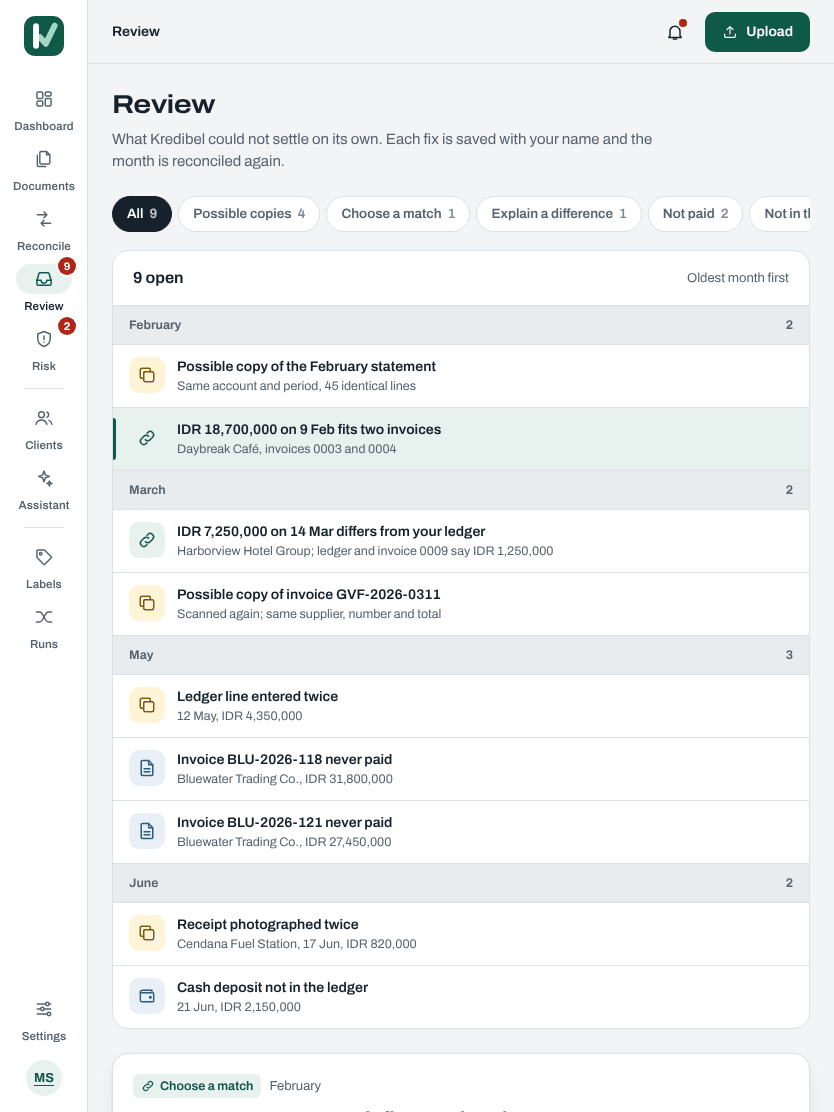
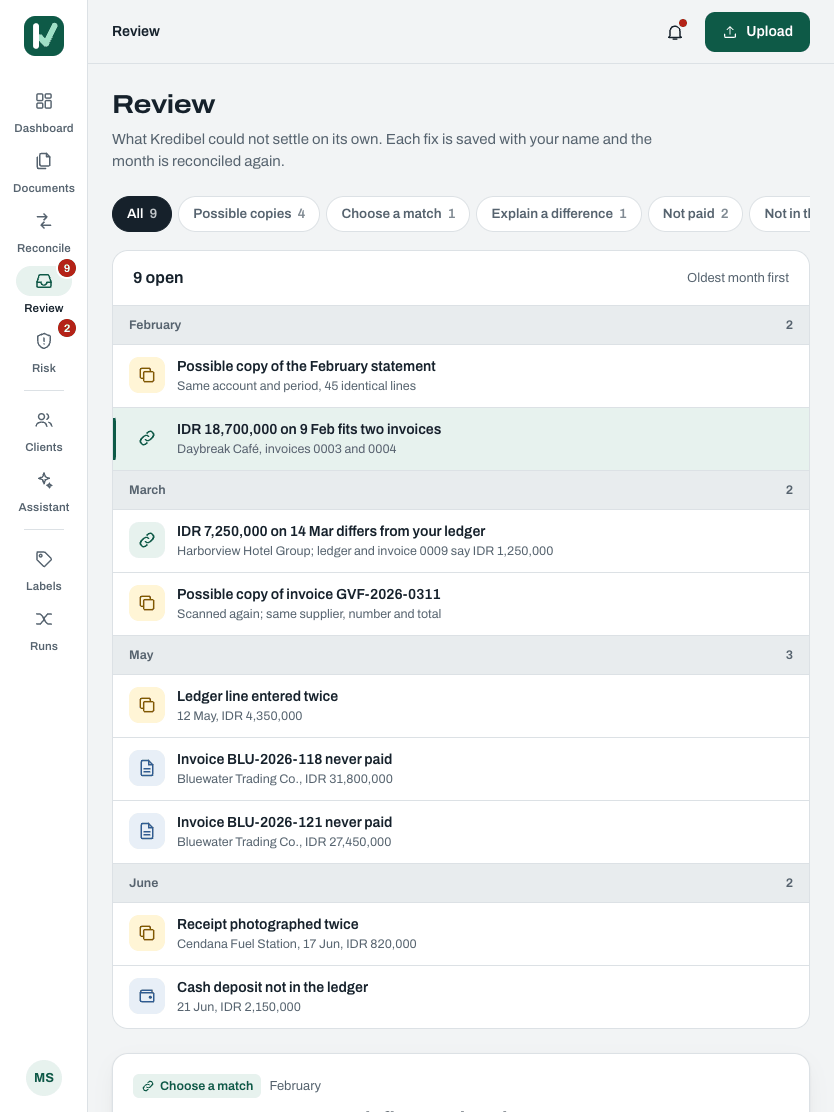
feat(001): one profile row and a two-line trial status at the sidebar foot
The sidebar foot stacked a dark four-line trial card, a Settings item
and the user row: 264 px, so the navigation scrolled on every laptop
screen (68 px hidden at 1440 x 900, 248 px at 1280 x 720).

Settings and the profile were two ways to the same page, so they are
now one row: avatar, name, role and a settings icon, opening Settings
and marked current on every Settings page (the avatar alone in the
rail; the More sheet still lists Settings). The trial card becomes a
light two-line link to Plan and usage: days left, then a thin meter
with "286 of 400 pages". With nav items at 38 px and tighter group
labels the foot is 116 px and the labelled sidebar fits a window 768 px
tall without scrolling (measured on the mocks); below that only the
navigation scrolls.

AC-001-16 and AC-013-12, docs/11 §4.1 and docs/12 follow; the mocks,
their screenshots and the visual baselines are re-recorded (the
onboarding baselines also pick up the currency field).

Tasks: T001-28, T013-12
AC: AC-001-16, AC-013-12

diff --git a/design/mocks/assets/kit.css b/design/mocks/assets/kit.css
@@ -117,8 +117,8 @@ a:hover { color: var(--k-color-brand-hover); }
     display: flex; flex-direction: column; align-items: center; gap: var(--k-space-2);
     position: sticky; top: 0; height: 100dvh; padding: var(--k-space-4) 0 var(--k-space-4);
   }
-  /* The column is exactly one viewport tall: the logo and the foot (settings, user) stay pinned and
-     only the main nav scrolls, so the avatar is never cut off on short screens. */
+  /* The column is exactly one viewport tall: the logo and the foot (trial status, profile) stay pinned
+     and only the main nav scrolls, so the avatar is never cut off on short screens. */
   .side > * { flex: none; }
   .side > .nav {
     flex: 1 1 auto; min-height: 0; overflow-y: auto; overscroll-behavior: contain; scrollbar-width: thin;
@@ -128,7 +128,7 @@ a:hover { color: var(--k-color-brand-hover); }
   .side .side-mark { display: block; width: 40px; height: 40px; }
   .side .nav { display: flex; flex-direction: column; gap: 2px; margin-top: var(--k-space-4); }
   .side .nav-item { width: 76px; min-height: 58px; font-size: 11.5px; flex: none; }
-  .side .nav-group-label, .side .workspace, .side .trial-card { display: none; }
+  .side .nav-group-label, .side .workspace, .side .trial-status, .side-foot .user-action { display: none; }
   .side .nav-sep { width: 40px; height: 1px; background: var(--k-color-border-default); margin: var(--k-space-2) auto; }
   .side-foot { margin-top: auto; display: flex; flex-direction: column; align-items: center; gap: var(--k-space-3); padding-top: var(--k-space-2); }
   .bottom-nav, .fab { display: none; }
@@ -144,7 +144,7 @@ a:hover { color: var(--k-color-brand-hover); }
   .side .side-mark { display: none; }
   .side .lockup { display: block; height: 34px; width: auto; margin: 2px 8px 0; }
   .side .workspace {
-    display: flex; align-items: center; gap: 10px; margin: var(--k-space-5) 0 var(--k-space-2); padding: 10px 12px;
+    display: flex; align-items: center; gap: 10px; margin: var(--k-space-4) 0 var(--k-space-1); padding: 10px 12px;
     border-radius: var(--k-radius-sm); background: var(--k-color-bg-sunken); text-decoration: none; color: var(--k-color-text-default);
   }
   .side .workspace .ws-icon { display: grid; place-items: center; width: 32px; height: 32px; border-radius: 9px; background: var(--k-color-bg-surface); color: var(--k-color-brand-default); flex: none; }
@@ -152,28 +152,38 @@ a:hover { color: var(--k-color-brand-hover); }
   .side .workspace span.sub { display: block; font-size: 12px; line-height: 16px; color: var(--k-color-text-muted); }
   .side .workspace > span:nth-child(2) { min-width: 0; flex: 1; }
   .side .nav { margin-top: var(--k-space-2); gap: 2px; }
-  .side .nav-group-label { display: block; margin: var(--k-space-4) 12px var(--k-space-1); font-size: 12px; font-weight: 600; color: var(--k-color-text-subtle); }
+  .side .nav-group-label { display: block; margin: var(--k-space-3) 12px var(--k-space-1); font-size: 12px; font-weight: 600; color: var(--k-color-text-subtle); }
   .side .nav-sep { display: none; }
   .side .nav-item {
-    width: auto; flex-direction: row; gap: 12px; min-height: 42px; padding: 0 12px; font-size: 14.5px; font-weight: 580; letter-spacing: 0;
+    width: auto; flex-direction: row; gap: 12px; min-height: 38px; padding: 0 12px; font-size: 14.5px; font-weight: 580; letter-spacing: 0;
   }
   .side .nav-item .nav-icon { width: 20px; height: 20px; background: none !important; }
   .side .nav-item[aria-current="page"] { background: var(--k-color-brand-soft); color: var(--k-color-brand-default); }
   .side .nav-item .nav-count { position: static; margin-left: auto; box-shadow: none; }
   .side .nav-item .nav-count.is-neutral { display: inline-grid; background: var(--k-color-bg-sunken); color: var(--k-color-text-default); }
-  .side .trial-card {
-    display: flex; flex-direction: column; gap: 8px; padding: var(--k-space-4); border-radius: var(--k-radius-md);
-    background: var(--k-color-bg-inverse); color: var(--k-color-text-on-inverse); font-size: 13px; line-height: 18px;
+  /* Trial status: two short lines, one link to Plan and usage (docs/11 §4.1). */
+  .side .trial-status {
+    display: grid; grid-template-columns: minmax(0, 1fr) auto; align-items: center; gap: 6px 10px; padding: 8px 12px;
+    border-radius: var(--k-radius-sm); background: var(--k-color-bg-sunken); color: var(--k-color-text-muted);
+    text-decoration: none; font-size: 12px; line-height: 16px;
   }
-  .side .trial-card strong { font-size: 15px; }
-  .side .trial-card .bar { height: 6px; border-radius: 3px; background: color-mix(in srgb, var(--k-color-text-on-inverse) 20%, transparent); overflow: hidden; }
-  .side .trial-card .bar i { display: block; height: 100%; width: 23%; background: var(--k-color-brand-accent); border-radius: 3px; }
-  .side .trial-card a { color: var(--k-color-brand-accent); font-weight: 600; }
+  .side .trial-status:hover { background: var(--k-color-brand-soft); }
+  .side .trial-status strong { grid-column: 1 / -1; color: var(--k-color-text-default); font-size: 13px; line-height: 18px; font-weight: 640; }
+  .side .trial-status.is-ended strong { color: var(--k-color-severity-critical-fg); }
+  .side .trial-status .bar { height: 4px; border-radius: 2px; background: var(--k-color-border-default); overflow: hidden; }
+  .side .trial-status .bar i { display: block; height: 100%; background: var(--k-color-brand-default); border-radius: 2px; }
   .side-foot { align-items: stretch; gap: var(--k-space-2); }
-  .side-foot .user { text-decoration: none; color: var(--k-color-text-default); display: flex; align-items: center; gap: 10px; padding: 6px 4px; font-size: 13px; min-width: 0; }
-  .side-foot .user > span:not(.avatar) { min-width: 0; flex: 1; }
-  .side-foot .user strong { display: block; font-size: 14px; white-space: nowrap; overflow: hidden; text-overflow: ellipsis; }
+  .side-foot .user { padding: 4px 8px; font-size: 13px; line-height: 16px; }
+  .side-foot .user:hover { background: var(--k-color-bg-sunken); }
+  .side-foot .user[aria-current="page"] { background: var(--k-color-brand-soft); }
+  .side-foot .user[aria-current="page"] .avatar { box-shadow: none; }
+  .side-foot .user > span:not(.avatar) { min-width: 0; flex: 1; color: var(--k-color-text-muted); }
+  .side-foot .user strong { display: block; font-size: 14px; line-height: 18px; color: var(--k-color-text-default); white-space: nowrap; overflow: hidden; text-overflow: ellipsis; }
+  .side-foot .user-action { display: block; color: var(--k-color-text-muted); }
 }
+/* Profile: the avatar, name and role in one link to Settings; the avatar alone in the rail. */
+.side-foot .user { display: flex; align-items: center; gap: 10px; min-width: 0; border-radius: var(--k-radius-sm); text-decoration: none; color: var(--k-color-text-default); }
+.side-foot .user[aria-current="page"] .avatar { box-shadow: 0 0 0 2px var(--k-color-brand-default); }
 .side-foot .user span:not(.avatar) { display: none; }
 @container app (width >= 1200px) { .side-foot .user span:not(.avatar) { display: block; } }
 

diff --git a/frontend/src/app/styles/kit.css b/frontend/src/app/styles/kit.css
@@ -110,8 +110,8 @@ a:hover { color: var(--k-color-brand-hover); }
     display: flex; flex-direction: column; align-items: center; gap: var(--k-space-2);
     position: sticky; top: 0; height: 100dvh; padding: var(--k-space-4) 0 var(--k-space-4);
   }
-  /* The column is exactly one viewport tall: the logo and the foot (settings, user) stay pinned and
-     only the main nav scrolls, so the avatar is never cut off on short screens. */
+  /* The column is exactly one viewport tall: the logo and the foot (trial status, profile) stay pinned
+     and only the main nav scrolls, so the avatar is never cut off on short screens. */
   .side > * { flex: none; }
   .side > .nav {
     flex: 1 1 auto; min-height: 0; overflow-y: auto; overscroll-behavior: contain; scrollbar-width: thin;
@@ -121,7 +121,7 @@ a:hover { color: var(--k-color-brand-hover); }
   .side .side-mark { display: block; width: 40px; height: 40px; }
   .side .nav { display: flex; flex-direction: column; gap: 2px; margin-top: var(--k-space-4); }
   .side .nav-item { width: 76px; min-height: 58px; font-size: 11.5px; flex: none; }
-  .side .nav-group-label, .side .workspace, .side .trial-card { display: none; }
+  .side .nav-group-label, .side .workspace, .side .trial-status, .side-foot .user-action { display: none; }
   .side .nav-sep { width: 40px; height: 1px; background: var(--k-color-border-default); margin: var(--k-space-2) auto; }
   .side-foot { margin-top: auto; display: flex; flex-direction: column; align-items: center; gap: var(--k-space-3); padding-top: var(--k-space-2); }
   .bottom-nav, .fab { display: none; }
@@ -137,7 +137,7 @@ a:hover { color: var(--k-color-brand-hover); }
   .side .side-mark { display: none; }
   .side .lockup { display: block; height: 34px; width: auto; margin: 2px 8px 0; }
   .side .workspace {
-    display: flex; align-items: center; gap: 10px; margin: var(--k-space-5) 0 var(--k-space-2); padding: 10px 12px;
+    display: flex; align-items: center; gap: 10px; margin: var(--k-space-4) 0 var(--k-space-1); padding: 10px 12px;
     border-radius: var(--k-radius-sm); background: var(--k-color-bg-sunken); text-decoration: none; color: var(--k-color-text-default);
   }
   .side .workspace .ws-icon { display: grid; place-items: center; width: 32px; height: 32px; border-radius: 9px; background: var(--k-color-bg-surface); color: var(--k-color-brand-default); flex: none; }
@@ -145,28 +145,38 @@ a:hover { color: var(--k-color-brand-hover); }
   .side .workspace span.sub { display: block; font-size: 12px; line-height: 16px; color: var(--k-color-text-muted); }
   .side .workspace > span:nth-child(2) { min-width: 0; flex: 1; }
   .side .nav { margin-top: var(--k-space-2); gap: 2px; }
-  .side .nav-group-label { display: block; margin: var(--k-space-4) 12px var(--k-space-1); font-size: 12px; font-weight: 600; color: var(--k-color-text-subtle); }
+  .side .nav-group-label { display: block; margin: var(--k-space-3) 12px var(--k-space-1); font-size: 12px; font-weight: 600; color: var(--k-color-text-subtle); }
   .side .nav-sep { display: none; }
   .side .nav-item {
-    width: auto; flex-direction: row; gap: 12px; min-height: 42px; padding: 0 12px; font-size: 14.5px; font-weight: 580; letter-spacing: 0;
+    width: auto; flex-direction: row; gap: 12px; min-height: 38px; padding: 0 12px; font-size: 14.5px; font-weight: 580; letter-spacing: 0;
   }
   .side .nav-item .nav-icon { width: 20px; height: 20px; background: none !important; }
   .side .nav-item[aria-current="page"] { background: var(--k-color-brand-soft); color: var(--k-color-brand-default); }
   .side .nav-item .nav-count { position: static; margin-left: auto; box-shadow: none; }
   .side .nav-item .nav-count.is-neutral { display: inline-grid; background: var(--k-color-bg-sunken); color: var(--k-color-text-default); }
-  .side .trial-card {
-    display: flex; flex-direction: column; gap: 8px; padding: var(--k-space-4); border-radius: var(--k-radius-md);
-    background: var(--k-color-bg-inverse); color: var(--k-color-text-on-inverse); font-size: 13px; line-height: 18px;
+  /* Trial status: two short lines, one link to Plan and usage (docs/11 §4.1). */
+  .side .trial-status {
+    display: grid; grid-template-columns: minmax(0, 1fr) auto; align-items: center; gap: 6px 10px; padding: 8px 12px;
+    border-radius: var(--k-radius-sm); background: var(--k-color-bg-sunken); color: var(--k-color-text-muted);
+    text-decoration: none; font-size: 12px; line-height: 16px;
   }
-  .side .trial-card strong { font-size: 15px; }
-  .side .trial-card .bar { height: 6px; border-radius: 3px; background: color-mix(in srgb, var(--k-color-text-on-inverse) 20%, transparent); overflow: hidden; }
-  .side .trial-card .bar i { display: block; height: 100%; width: 23%; background: var(--k-color-brand-accent); border-radius: 3px; }
-  .side .trial-card a { color: var(--k-color-brand-accent); font-weight: 600; }
+  .side .trial-status:hover { background: var(--k-color-brand-soft); }
+  .side .trial-status strong { grid-column: 1 / -1; color: var(--k-color-text-default); font-size: 13px; line-height: 18px; font-weight: 640; }
+  .side .trial-status.is-ended strong { color: var(--k-color-severity-critical-fg); }
+  .side .trial-status .bar { height: 4px; border-radius: 2px; background: var(--k-color-border-default); overflow: hidden; }
+  .side .trial-status .bar i { display: block; height: 100%; background: var(--k-color-brand-default); border-radius: 2px; }
   .side-foot { align-items: stretch; gap: var(--k-space-2); }
-  .side-foot .user { text-decoration: none; color: var(--k-color-text-default); display: flex; align-items: center; gap: 10px; padding: 6px 4px; font-size: 13px; min-width: 0; }
-  .side-foot .user > span:not(.avatar) { min-width: 0; flex: 1; }
-  .side-foot .user strong { display: block; font-size: 14px; white-space: nowrap; overflow: hidden; text-overflow: ellipsis; }
+  .side-foot .user { padding: 4px 8px; font-size: 13px; line-height: 16px; }
+  .side-foot .user:hover { background: var(--k-color-bg-sunken); }
+  .side-foot .user[aria-current="page"] { background: var(--k-color-brand-soft); }
+  .side-foot .user[aria-current="page"] .avatar { box-shadow: none; }
+  .side-foot .user > span:not(.avatar) { min-width: 0; flex: 1; color: var(--k-color-text-muted); }
+  .side-foot .user strong { display: block; font-size: 14px; line-height: 18px; color: var(--k-color-text-default); white-space: nowrap; overflow: hidden; text-overflow: ellipsis; }
+  .side-foot .user-action { display: block; color: var(--k-color-text-muted); }
 }
+/* Profile: the avatar, name and role in one link to Settings; the avatar alone in the rail. */
+.side-foot .user { display: flex; align-items: center; gap: 10px; min-width: 0; border-radius: var(--k-radius-sm); text-decoration: none; color: var(--k-color-text-default); }
+.side-foot .user[aria-current="page"] .avatar { box-shadow: 0 0 0 2px var(--k-color-brand-default); }
 .side-foot .user span:not(.avatar) { display: none; }
 @container app (width >= 1200px) { .side-foot .user span:not(.avatar) { display: block; } }
 

diff --git a/frontend/src/shared/ui/AppShellSide.tsx b/frontend/src/shared/ui/AppShellSide.tsx
@@ -55,22 +55,50 @@ function group(name: NavGroup) {
   return NAV_ITEMS.filter((item) => item.group === name)
 }
 
-export function TrialCard({ trial }: { trial: AppShellTrial }) {
+/** Two short lines at the sidebar foot; the whole row opens Plan and usage (docs/11 §4.1). */
+export function TrialStatus({ trial }: { trial: AppShellTrial }) {
   const { t } = useTranslation()
+  const ended = trial.status === 'TRIAL_EXPIRED'
   const percent = Math.min(100, Math.round((trial.pagesUsed / Math.max(1, trial.pagesMax)) * 100))
   return (
-    <div className="trial-card">
-      <strong>
-        {trial.status === 'TRIAL_EXPIRED'
-          ? t('shell.trialEndedCard')
-          : t('shell.trialDaysLeft', { count: trial.daysLeft })}
-      </strong>
-      <span>{t('shell.pagesUsed', { used: trial.pagesUsed, max: trial.pagesMax })}</span>
-      <span className="bar">
+    <Link
+      className={`trial-status${ended ? ' is-ended' : ''}`}
+      to="/settings/plan"
+      title={t('shell.planAndUsage')}
+    >
+      <strong>{ended ? t('shell.trialEndedCard') : t('shell.trialDaysLeft', { count: trial.daysLeft })}</strong>
+      <span className="bar" aria-hidden="true">
         <i style={{ width: `${percent}%` }} /* allow-raw-style: computed meter width */ />
       </span>
-      <Link to="/settings/plan">{t('shell.planAndUsage')}</Link>
-    </div>
+      <span className="pages">{t('shell.pagesShort', { used: trial.pagesUsed, max: trial.pagesMax })}</span>
+    </Link>
+  )
+}
+
+/** The avatar, name and role in one link to Settings; the rail shows the avatar alone. */
+function ProfileLink({ user, activePath }: { user: AppShellUser; activePath: string }) {
+  const { t } = useTranslation()
+  const role = user.role ? t(`roles.${user.role}`) : null
+  const label = role
+    ? t('shell.profileWithRole', { name: user.name, role })
+    : t('shell.profile', { name: user.name })
+  return (
+    <Link
+      className="user"
+      to="/settings/profile"
+      title={t('nav.settings.long')}
+      aria-label={label}
+      aria-current={isActivePath(activePath, '/settings') ? 'page' : undefined}
+    >
+      <span className="avatar" aria-hidden="true">
+        {initialsOf(user.name)}
+      </span>
+      <span>
+        <strong>{user.name}</strong>
+        {role}
+      </span>
+      <Icon name="sliders" className="user-action" />
+    </Link>
   )
 }
 
@@ -94,7 +122,6 @@ export function AppShellSide({ user, workspace, trial, counts, activePath }: Sid
     books: links('books'),
     insight: links('insight'),
     ai: links('ai'),
-    foot: links('foot'),
   }
 
   return (
@@ -127,21 +154,8 @@ export function AppShellSide({ user, workspace, trial, counts, activePath }: Sid
         {nav.ai}
       </nav>
       <div className="side-foot">
-        {trial && <TrialCard trial={trial} />}
-        <nav className="nav" aria-label={t('nav.settingsNav')}>
-          {nav.foot}
-        </nav>
-        {user && (
-          <Link className="user" to="/settings/profile">
-            <span className="avatar" role="img" aria-label={t('shell.signedInAs', { name: user.name })}>
-              {initialsOf(user.name)}
-            </span>
-            <span>
-              <strong>{user.name}</strong>
-              {user.role ? t(`roles.${user.role}`) : null}
-            </span>
-          </Link>
-        )}
+        {trial && <TrialStatus trial={trial} />}
+        {user && <ProfileLink user={user} activePath={activePath} />}
       </div>
     </aside>
   )

diff --git a/design/mocks/plan-usage.html b/design/mocks/plan-usage.html
@@ -20,9 +20,8 @@
     <span class="nav-group-label">AI quality</span><span class="nav-sep" aria-hidden="true"></span><a class="nav-item" href="labels.html" title="Labels"><span class="nav-icon"><svg class="icon" viewBox="0 0 24 24" aria-hidden="true"><path d="M3.5 12.2V4.5a1 1 0 0 1 1-1h7.7a1 1 0 0 1 .7.3l7.8 7.8a1 1 0 0 1 0 1.4l-7.7 7.7a1 1 0 0 1-1.4 0l-7.8-7.8a1 1 0 0 1-.3-.7z"/><circle cx="8" cy="8" r="1.5"/></svg></span><span class="nav-label-long hide-below-large">Labels</span><span class="nav-label-short hide-large">Labels</span><span class="nav-count is-neutral" aria-label="37 items">37</span></a><a class="nav-item" href="runs.html" title="Runs"><span class="nav-icon"><svg class="icon" viewBox="0 0 24 24" aria-hidden="true"><path d="M3 6h4c4 0 6 12 10 12h4"/><path d="M3 18h4c4 0 6-12 10-12h4"/></svg></span><span class="nav-label-long hide-below-large">Runs</span><span class="nav-label-short hide-large">Runs</span></a>
   </nav>
   <div class="side-foot">
-    <div class="trial-card"><strong>Free trial: 23 days left</strong><span>286 of 400 pages read this month</span><span class="bar"><i></i></span><a href="plan-usage.html">Plan and usage</a></div>
-    <nav class="nav" aria-label="Settings"><a class="nav-item" href="plan-usage.html" aria-current="page" title="Settings"><span class="nav-icon"><svg class="icon" viewBox="0 0 24 24" aria-hidden="true"><path d="M4 6h10M18 6h2M4 12h4M12 12h8M4 18h12M20 18h0"/><circle cx="16" cy="6" r="2"/><circle cx="10" cy="12" r="2"/><circle cx="18" cy="18" r="2"/></svg></span><span class="nav-label-long hide-below-large">Settings</span><span class="nav-label-short hide-large">Settings</span></a></nav>
-    <a class="user" href="plan-usage.html"><span class="avatar" role="img" aria-label="Signed in as Maya Sari">MS</span><span><strong>Maya Sari</strong>Owner</span></a>
+    <a class="trial-status" href="plan-usage.html" title="Plan and usage"><strong>Free trial: 23 days left</strong><span class="bar" aria-hidden="true"><i style="width:72%"></i></span><span class="pages">286 of 400 pages</span></a>
+    <a class="user" href="plan-usage.html" aria-current="page" title="Settings" aria-label="Settings, signed in as Maya Sari (Owner)"><span class="avatar" aria-hidden="true">MS</span><span><strong>Maya Sari</strong>Owner</span><svg class="icon user-action" viewBox="0 0 24 24" aria-hidden="true"><path d="M4 6h10M18 6h2M4 12h4M12 12h8M4 18h12M20 18h0"/><circle cx="16" cy="6" r="2"/><circle cx="10" cy="12" r="2"/><circle cx="18" cy="18" r="2"/></svg></a>
   </div>
 </aside><div class="main"><header class="topbar">
   <a class="icon-button only-compact" href="dashboard.html" aria-label="Back to Dashboard"><svg class="icon" viewBox="0 0 24 24" aria-hidden="true"><path d="m14.5 6-6 6 6 6"/></svg></a>

diff --git a/design/mocks/month.html b/design/mocks/month.html
@@ -20,9 +20,8 @@
     <span class="nav-group-label">AI quality</span><span class="nav-sep" aria-hidden="true"></span><a class="nav-item" href="labels.html" title="Labels"><span class="nav-icon"><svg class="icon" viewBox="0 0 24 24" aria-hidden="true"><path d="M3.5 12.2V4.5a1 1 0 0 1 1-1h7.7a1 1 0 0 1 .7.3l7.8 7.8a1 1 0 0 1 0 1.4l-7.7 7.7a1 1 0 0 1-1.4 0l-7.8-7.8a1 1 0 0 1-.3-.7z"/><circle cx="8" cy="8" r="1.5"/></svg></span><span class="nav-label-long hide-below-large">Labels</span><span class="nav-label-short hide-large">Labels</span><span class="nav-count is-neutral" aria-label="37 items">37</span></a><a class="nav-item" href="runs.html" title="Runs"><span class="nav-icon"><svg class="icon" viewBox="0 0 24 24" aria-hidden="true"><path d="M3 6h4c4 0 6 12 10 12h4"/><path d="M3 18h4c4 0 6-12 10-12h4"/></svg></span><span class="nav-label-long hide-below-large">Runs</span><span class="nav-label-short hide-large">Runs</span></a>
   </nav>
   <div class="side-foot">
-    <div class="trial-card"><strong>Free trial: 23 days left</strong><span>286 of 400 pages read this month</span><span class="bar"><i></i></span><a href="plan-usage.html">Plan and usage</a></div>
-    <nav class="nav" aria-label="Settings"><a class="nav-item" href="plan-usage.html" title="Settings"><span class="nav-icon"><svg class="icon" viewBox="0 0 24 24" aria-hidden="true"><path d="M4 6h10M18 6h2M4 12h4M12 12h8M4 18h12M20 18h0"/><circle cx="16" cy="6" r="2"/><circle cx="10" cy="12" r="2"/><circle cx="18" cy="18" r="2"/></svg></span><span class="nav-label-long hide-below-large">Settings</span><span class="nav-label-short hide-large">Settings</span></a></nav>
-    <a class="user" href="plan-usage.html"><span class="avatar" role="img" aria-label="Signed in as Maya Sari">MS</span><span><strong>Maya Sari</strong>Owner</span></a>
+    <a class="trial-status" href="plan-usage.html" title="Plan and usage"><strong>Free trial: 23 days left</strong><span class="bar" aria-hidden="true"><i style="width:72%"></i></span><span class="pages">286 of 400 pages</span></a>
+    <a class="user" href="plan-usage.html" title="Settings" aria-label="Settings, signed in as Maya Sari (Owner)"><span class="avatar" aria-hidden="true">MS</span><span><strong>Maya Sari</strong>Owner</span><svg class="icon user-action" viewBox="0 0 24 24" aria-hidden="true"><path d="M4 6h10M18 6h2M4 12h4M12 12h8M4 18h12M20 18h0"/><circle cx="16" cy="6" r="2"/><circle cx="10" cy="12" r="2"/><circle cx="18" cy="18" r="2"/></svg></a>
   </div>
 </aside><div class="main"><header class="topbar">
   <a class="icon-button only-compact" href="dashboard.html" aria-label="Back to Dashboard"><svg class="icon" viewBox="0 0 24 24" aria-hidden="true"><path d="m14.5 6-6 6 6 6"/></svg></a>

diff --git a/design/mocks/labels.html b/design/mocks/labels.html
@@ -20,9 +20,8 @@
     <span class="nav-group-label">AI quality</span><span class="nav-sep" aria-hidden="true"></span><a class="nav-item" href="labels.html" aria-current="page" title="Labels"><span class="nav-icon"><svg class="icon" viewBox="0 0 24 24" aria-hidden="true"><path d="M3.5 12.2V4.5a1 1 0 0 1 1-1h7.7a1 1 0 0 1 .7.3l7.8 7.8a1 1 0 0 1 0 1.4l-7.7 7.7a1 1 0 0 1-1.4 0l-7.8-7.8a1 1 0 0 1-.3-.7z"/><circle cx="8" cy="8" r="1.5"/></svg></span><span class="nav-label-long hide-below-large">Labels</span><span class="nav-label-short hide-large">Labels</span><span class="nav-count is-neutral" aria-label="37 items">37</span></a><a class="nav-item" href="runs.html" title="Runs"><span class="nav-icon"><svg class="icon" viewBox="0 0 24 24" aria-hidden="true"><path d="M3 6h4c4 0 6 12 10 12h4"/><path d="M3 18h4c4 0 6-12 10-12h4"/></svg></span><span class="nav-label-long hide-below-large">Runs</span><span class="nav-label-short hide-large">Runs</span></a>
   </nav>
   <div class="side-foot">
-    <div class="trial-card"><strong>Free trial: 23 days left</strong><span>286 of 400 pages read this month</span><span class="bar"><i></i></span><a href="plan-usage.html">Plan and usage</a></div>
-    <nav class="nav" aria-label="Settings"><a class="nav-item" href="plan-usage.html" title="Settings"><span class="nav-icon"><svg class="icon" viewBox="0 0 24 24" aria-hidden="true"><path d="M4 6h10M18 6h2M4 12h4M12 12h8M4 18h12M20 18h0"/><circle cx="16" cy="6" r="2"/><circle cx="10" cy="12" r="2"/><circle cx="18" cy="18" r="2"/></svg></span><span class="nav-label-long hide-below-large">Settings</span><span class="nav-label-short hide-large">Settings</span></a></nav>
-    <a class="user" href="plan-usage.html"><span class="avatar" role="img" aria-label="Signed in as Maya Sari">MS</span><span><strong>Maya Sari</strong>Owner</span></a>
+    <a class="trial-status" href="plan-usage.html" title="Plan and usage"><strong>Free trial: 23 days left</strong><span class="bar" aria-hidden="true"><i style="width:72%"></i></span><span class="pages">286 of 400 pages</span></a>
+    <a class="user" href="plan-usage.html" title="Settings" aria-label="Settings, signed in as Maya Sari (Owner)"><span class="avatar" aria-hidden="true">MS</span><span><strong>Maya Sari</strong>Owner</span><svg class="icon user-action" viewBox="0 0 24 24" aria-hidden="true"><path d="M4 6h10M18 6h2M4 12h4M12 12h8M4 18h12M20 18h0"/><circle cx="16" cy="6" r="2"/><circle cx="10" cy="12" r="2"/><circle cx="18" cy="18" r="2"/></svg></a>
   </div>
 </aside><div class="main"><header class="topbar">
   <a class="only-compact" href="dashboard.html"><img class="mark" src="../brand/kredibel-mark.svg" alt="Kredibel"/></a>

diff --git a/design/mocks/runs.html b/design/mocks/runs.html
@@ -20,9 +20,8 @@
     <span class="nav-group-label">AI quality</span><span class="nav-sep" aria-hidden="true"></span><a class="nav-item" href="labels.html" title="Labels"><span class="nav-icon"><svg class="icon" viewBox="0 0 24 24" aria-hidden="true"><path d="M3.5 12.2V4.5a1 1 0 0 1 1-1h7.7a1 1 0 0 1 .7.3l7.8 7.8a1 1 0 0 1 0 1.4l-7.7 7.7a1 1 0 0 1-1.4 0l-7.8-7.8a1 1 0 0 1-.3-.7z"/><circle cx="8" cy="8" r="1.5"/></svg></span><span class="nav-label-long hide-below-large">Labels</span><span class="nav-label-short hide-large">Labels</span><span class="nav-count is-neutral" aria-label="37 items">37</span></a><a class="nav-item" href="runs.html" aria-current="page" title="Runs"><span class="nav-icon"><svg class="icon" viewBox="0 0 24 24" aria-hidden="true"><path d="M3 6h4c4 0 6 12 10 12h4"/><path d="M3 18h4c4 0 6-12 10-12h4"/></svg></span><span class="nav-label-long hide-below-large">Runs</span><span class="nav-label-short hide-large">Runs</span></a>
   </nav>
   <div class="side-foot">
-    <div class="trial-card"><strong>Free trial: 23 days left</strong><span>286 of 400 pages read this month</span><span class="bar"><i></i></span><a href="plan-usage.html">Plan and usage</a></div>
-    <nav class="nav" aria-label="Settings"><a class="nav-item" href="plan-usage.html" title="Settings"><span class="nav-icon"><svg class="icon" viewBox="0 0 24 24" aria-hidden="true"><path d="M4 6h10M18 6h2M4 12h4M12 12h8M4 18h12M20 18h0"/><circle cx="16" cy="6" r="2"/><circle cx="10" cy="12" r="2"/><circle cx="18" cy="18" r="2"/></svg></span><span class="nav-label-long hide-below-large">Settings</span><span class="nav-label-short hide-large">Settings</span></a></nav>
-    <a class="user" href="plan-usage.html"><span class="avatar" role="img" aria-label="Signed in as Maya Sari">MS</span><span><strong>Maya Sari</strong>Owner</span></a>
+    <a class="trial-status" href="plan-usage.html" title="Plan and usage"><strong>Free trial: 23 days left</strong><span class="bar" aria-hidden="true"><i style="width:72%"></i></span><span class="pages">286 of 400 pages</span></a>
+    <a class="user" href="plan-usage.html" title="Settings" aria-label="Settings, signed in as Maya Sari (Owner)"><span class="avatar" aria-hidden="true">MS</span><span><strong>Maya Sari</strong>Owner</span><svg class="icon user-action" viewBox="0 0 24 24" aria-hidden="true"><path d="M4 6h10M18 6h2M4 12h4M12 12h8M4 18h12M20 18h0"/><circle cx="16" cy="6" r="2"/><circle cx="10" cy="12" r="2"/><circle cx="18" cy="18" r="2"/></svg></a>
   </div>
 </aside><div class="main"><header class="topbar">
   <a class="only-compact" href="dashboard.html"><img class="mark" src="../brand/kredibel-mark.svg" alt="Kredibel"/></a>

diff --git a/design/mocks/assistant.html b/design/mocks/assistant.html
@@ -20,9 +20,8 @@
     <span class="nav-group-label">AI quality</span><span class="nav-sep" aria-hidden="true"></span><a class="nav-item" href="labels.html" title="Labels"><span class="nav-icon"><svg class="icon" viewBox="0 0 24 24" aria-hidden="true"><path d="M3.5 12.2V4.5a1 1 0 0 1 1-1h7.7a1 1 0 0 1 .7.3l7.8 7.8a1 1 0 0 1 0 1.4l-7.7 7.7a1 1 0 0 1-1.4 0l-7.8-7.8a1 1 0 0 1-.3-.7z"/><circle cx="8" cy="8" r="1.5"/></svg></span><span class="nav-label-long hide-below-large">Labels</span><span class="nav-label-short hide-large">Labels</span><span class="nav-count is-neutral" aria-label="37 items">37</span></a><a class="nav-item" href="runs.html" title="Runs"><span class="nav-icon"><svg class="icon" viewBox="0 0 24 24" aria-hidden="true"><path d="M3 6h4c4 0 6 12 10 12h4"/><path d="M3 18h4c4 0 6-12 10-12h4"/></svg></span><span class="nav-label-long hide-below-large">Runs</span><span class="nav-label-short hide-large">Runs</span></a>
   </nav>
   <div class="side-foot">
-    <div class="trial-card"><strong>Free trial: 23 days left</strong><span>286 of 400 pages read this month</span><span class="bar"><i></i></span><a href="plan-usage.html">Plan and usage</a></div>
-    <nav class="nav" aria-label="Settings"><a class="nav-item" href="plan-usage.html" title="Settings"><span class="nav-icon"><svg class="icon" viewBox="0 0 24 24" aria-hidden="true"><path d="M4 6h10M18 6h2M4 12h4M12 12h8M4 18h12M20 18h0"/><circle cx="16" cy="6" r="2"/><circle cx="10" cy="12" r="2"/><circle cx="18" cy="18" r="2"/></svg></span><span class="nav-label-long hide-below-large">Settings</span><span class="nav-label-short hide-large">Settings</span></a></nav>
-    <a class="user" href="plan-usage.html"><span class="avatar" role="img" aria-label="Signed in as Maya Sari">MS</span><span><strong>Maya Sari</strong>Owner</span></a>
+    <a class="trial-status" href="plan-usage.html" title="Plan and usage"><strong>Free trial: 23 days left</strong><span class="bar" aria-hidden="true"><i style="width:72%"></i></span><span class="pages">286 of 400 pages</span></a>
+    <a class="user" href="plan-usage.html" title="Settings" aria-label="Settings, signed in as Maya Sari (Owner)"><span class="avatar" aria-hidden="true">MS</span><span><strong>Maya Sari</strong>Owner</span><svg class="icon user-action" viewBox="0 0 24 24" aria-hidden="true"><path d="M4 6h10M18 6h2M4 12h4M12 12h8M4 18h12M20 18h0"/><circle cx="16" cy="6" r="2"/><circle cx="10" cy="12" r="2"/><circle cx="18" cy="18" r="2"/></svg></a>
   </div>
 </aside><div class="main"><header class="topbar">
   <a class="only-compact" href="dashboard.html"><img class="mark" src="../brand/kredibel-mark.svg" alt="Kredibel"/></a>

diff --git a/design/mocks/clients.html b/design/mocks/clients.html
@@ -20,9 +20,8 @@
     <span class="nav-group-label">AI quality</span><span class="nav-sep" aria-hidden="true"></span><a class="nav-item" href="labels.html" title="Labels"><span class="nav-icon"><svg class="icon" viewBox="0 0 24 24" aria-hidden="true"><path d="M3.5 12.2V4.5a1 1 0 0 1 1-1h7.7a1 1 0 0 1 .7.3l7.8 7.8a1 1 0 0 1 0 1.4l-7.7 7.7a1 1 0 0 1-1.4 0l-7.8-7.8a1 1 0 0 1-.3-.7z"/><circle cx="8" cy="8" r="1.5"/></svg></span><span class="nav-label-long hide-below-large">Labels</span><span class="nav-label-short hide-large">Labels</span><span class="nav-count is-neutral" aria-label="37 items">37</span></a><a class="nav-item" href="runs.html" title="Runs"><span class="nav-icon"><svg class="icon" viewBox="0 0 24 24" aria-hidden="true"><path d="M3 6h4c4 0 6 12 10 12h4"/><path d="M3 18h4c4 0 6-12 10-12h4"/></svg></span><span class="nav-label-long hide-below-large">Runs</span><span class="nav-label-short hide-large">Runs</span></a>
   </nav>
   <div class="side-foot">
-    <div class="trial-card"><strong>Free trial: 23 days left</strong><span>286 of 400 pages read this month</span><span class="bar"><i></i></span><a href="plan-usage.html">Plan and usage</a></div>
-    <nav class="nav" aria-label="Settings"><a class="nav-item" href="plan-usage.html" title="Settings"><span class="nav-icon"><svg class="icon" viewBox="0 0 24 24" aria-hidden="true"><path d="M4 6h10M18 6h2M4 12h4M12 12h8M4 18h12M20 18h0"/><circle cx="16" cy="6" r="2"/><circle cx="10" cy="12" r="2"/><circle cx="18" cy="18" r="2"/></svg></span><span class="nav-label-long hide-below-large">Settings</span><span class="nav-label-short hide-large">Settings</span></a></nav>
-    <a class="user" href="plan-usage.html"><span class="avatar" role="img" aria-label="Signed in as Maya Sari">MS</span><span><strong>Maya Sari</strong>Owner</span></a>
+    <a class="trial-status" href="plan-usage.html" title="Plan and usage"><strong>Free trial: 23 days left</strong><span class="bar" aria-hidden="true"><i style="width:72%"></i></span><span class="pages">286 of 400 pages</span></a>
+    <a class="user" href="plan-usage.html" title="Settings" aria-label="Settings, signed in as Maya Sari (Owner)"><span class="avatar" aria-hidden="true">MS</span><span><strong>Maya Sari</strong>Owner</span><svg class="icon user-action" viewBox="0 0 24 24" aria-hidden="true"><path d="M4 6h10M18 6h2M4 12h4M12 12h8M4 18h12M20 18h0"/><circle cx="16" cy="6" r="2"/><circle cx="10" cy="12" r="2"/><circle cx="18" cy="18" r="2"/></svg></a>
   </div>
 </aside><div class="main"><header class="topbar">
   <a class="only-compact" href="dashboard.html"><img class="mark" src="../brand/kredibel-mark.svg" alt="Kredibel"/></a>

diff --git a/design/mocks/dashboard.html b/design/mocks/dashboard.html
@@ -20,9 +20,8 @@
     <span class="nav-group-label">AI quality</span><span class="nav-sep" aria-hidden="true"></span><a class="nav-item" href="labels.html" title="Labels"><span class="nav-icon"><svg class="icon" viewBox="0 0 24 24" aria-hidden="true"><path d="M3.5 12.2V4.5a1 1 0 0 1 1-1h7.7a1 1 0 0 1 .7.3l7.8 7.8a1 1 0 0 1 0 1.4l-7.7 7.7a1 1 0 0 1-1.4 0l-7.8-7.8a1 1 0 0 1-.3-.7z"/><circle cx="8" cy="8" r="1.5"/></svg></span><span class="nav-label-long hide-below-large">Labels</span><span class="nav-label-short hide-large">Labels</span><span class="nav-count is-neutral" aria-label="37 items">37</span></a><a class="nav-item" href="runs.html" title="Runs"><span class="nav-icon"><svg class="icon" viewBox="0 0 24 24" aria-hidden="true"><path d="M3 6h4c4 0 6 12 10 12h4"/><path d="M3 18h4c4 0 6-12 10-12h4"/></svg></span><span class="nav-label-long hide-below-large">Runs</span><span class="nav-label-short hide-large">Runs</span></a>
   </nav>
   <div class="side-foot">
-    <div class="trial-card"><strong>Free trial: 23 days left</strong><span>286 of 400 pages read this month</span><span class="bar"><i></i></span><a href="plan-usage.html">Plan and usage</a></div>
-    <nav class="nav" aria-label="Settings"><a class="nav-item" href="plan-usage.html" title="Settings"><span class="nav-icon"><svg class="icon" viewBox="0 0 24 24" aria-hidden="true"><path d="M4 6h10M18 6h2M4 12h4M12 12h8M4 18h12M20 18h0"/><circle cx="16" cy="6" r="2"/><circle cx="10" cy="12" r="2"/><circle cx="18" cy="18" r="2"/></svg></span><span class="nav-label-long hide-below-large">Settings</span><span class="nav-label-short hide-large">Settings</span></a></nav>
-    <a class="user" href="plan-usage.html"><span class="avatar" role="img" aria-label="Signed in as Maya Sari">MS</span><span><strong>Maya Sari</strong>Owner</span></a>
+    <a class="trial-status" href="plan-usage.html" title="Plan and usage"><strong>Free trial: 23 days left</strong><span class="bar" aria-hidden="true"><i style="width:72%"></i></span><span class="pages">286 of 400 pages</span></a>
+    <a class="user" href="plan-usage.html" title="Settings" aria-label="Settings, signed in as Maya Sari (Owner)"><span class="avatar" aria-hidden="true">MS</span><span><strong>Maya Sari</strong>Owner</span><svg class="icon user-action" viewBox="0 0 24 24" aria-hidden="true"><path d="M4 6h10M18 6h2M4 12h4M12 12h8M4 18h12M20 18h0"/><circle cx="16" cy="6" r="2"/><circle cx="10" cy="12" r="2"/><circle cx="18" cy="18" r="2"/></svg></a>
   </div>
 </aside><div class="main"><header class="topbar">
   <a class="only-compact" href="dashboard.html"><img class="mark" src="../brand/kredibel-mark.svg" alt="Kredibel"/></a>

diff --git a/design/mocks/documents.html b/design/mocks/documents.html
@@ -20,9 +20,8 @@
     <span class="nav-group-label">AI quality</span><span class="nav-sep" aria-hidden="true"></span><a class="nav-item" href="labels.html" title="Labels"><span class="nav-icon"><svg class="icon" viewBox="0 0 24 24" aria-hidden="true"><path d="M3.5 12.2V4.5a1 1 0 0 1 1-1h7.7a1 1 0 0 1 .7.3l7.8 7.8a1 1 0 0 1 0 1.4l-7.7 7.7a1 1 0 0 1-1.4 0l-7.8-7.8a1 1 0 0 1-.3-.7z"/><circle cx="8" cy="8" r="1.5"/></svg></span><span class="nav-label-long hide-below-large">Labels</span><span class="nav-label-short hide-large">Labels</span><span class="nav-count is-neutral" aria-label="37 items">37</span></a><a class="nav-item" href="runs.html" title="Runs"><span class="nav-icon"><svg class="icon" viewBox="0 0 24 24" aria-hidden="true"><path d="M3 6h4c4 0 6 12 10 12h4"/><path d="M3 18h4c4 0 6-12 10-12h4"/></svg></span><span class="nav-label-long hide-below-large">Runs</span><span class="nav-label-short hide-large">Runs</span></a>
   </nav>
   <div class="side-foot">
-    <div class="trial-card"><strong>Free trial: 23 days left</strong><span>286 of 400 pages read this month</span><span class="bar"><i></i></span><a href="plan-usage.html">Plan and usage</a></div>
-    <nav class="nav" aria-label="Settings"><a class="nav-item" href="plan-usage.html" title="Settings"><span class="nav-icon"><svg class="icon" viewBox="0 0 24 24" aria-hidden="true"><path d="M4 6h10M18 6h2M4 12h4M12 12h8M4 18h12M20 18h0"/><circle cx="16" cy="6" r="2"/><circle cx="10" cy="12" r="2"/><circle cx="18" cy="18" r="2"/></svg></span><span class="nav-label-long hide-below-large">Settings</span><span class="nav-label-short hide-large">Settings</span></a></nav>
-    <a class="user" href="plan-usage.html"><span class="avatar" role="img" aria-label="Signed in as Maya Sari">MS</span><span><strong>Maya Sari</strong>Owner</span></a>
+    <a class="trial-status" href="plan-usage.html" title="Plan and usage"><strong>Free trial: 23 days left</strong><span class="bar" aria-hidden="true"><i style="width:72%"></i></span><span class="pages">286 of 400 pages</span></a>
+    <a class="user" href="plan-usage.html" title="Settings" aria-label="Settings, signed in as Maya Sari (Owner)"><span class="avatar" aria-hidden="true">MS</span><span><strong>Maya Sari</strong>Owner</span><svg class="icon user-action" viewBox="0 0 24 24" aria-hidden="true"><path d="M4 6h10M18 6h2M4 12h4M12 12h8M4 18h12M20 18h0"/><circle cx="16" cy="6" r="2"/><circle cx="10" cy="12" r="2"/><circle cx="18" cy="18" r="2"/></svg></a>
   </div>
 </aside><div class="main"><header class="topbar">
   <a class="only-compact" href="dashboard.html"><img class="mark" src="../brand/kredibel-mark.svg" alt="Kredibel"/></a>

diff --git a/design/mocks/review.html b/design/mocks/review.html
@@ -20,9 +20,8 @@
     <span class="nav-group-label">AI quality</span><span class="nav-sep" aria-hidden="true"></span><a class="nav-item" href="labels.html" title="Labels"><span class="nav-icon"><svg class="icon" viewBox="0 0 24 24" aria-hidden="true"><path d="M3.5 12.2V4.5a1 1 0 0 1 1-1h7.7a1 1 0 0 1 .7.3l7.8 7.8a1 1 0 0 1 0 1.4l-7.7 7.7a1 1 0 0 1-1.4 0l-7.8-7.8a1 1 0 0 1-.3-.7z"/><circle cx="8" cy="8" r="1.5"/></svg></span><span class="nav-label-long hide-below-large">Labels</span><span class="nav-label-short hide-large">Labels</span><span class="nav-count is-neutral" aria-label="37 items">37</span></a><a class="nav-item" href="runs.html" title="Runs"><span class="nav-icon"><svg class="icon" viewBox="0 0 24 24" aria-hidden="true"><path d="M3 6h4c4 0 6 12 10 12h4"/><path d="M3 18h4c4 0 6-12 10-12h4"/></svg></span><span class="nav-label-long hide-below-large">Runs</span><span class="nav-label-short hide-large">Runs</span></a>
   </nav>
   <div class="side-foot">
-    <div class="trial-card"><strong>Free trial: 23 days left</strong><span>286 of 400 pages read this month</span><span class="bar"><i></i></span><a href="plan-usage.html">Plan and usage</a></div>
-    <nav class="nav" aria-label="Settings"><a class="nav-item" href="plan-usage.html" title="Settings"><span class="nav-icon"><svg class="icon" viewBox="0 0 24 24" aria-hidden="true"><path d="M4 6h10M18 6h2M4 12h4M12 12h8M4 18h12M20 18h0"/><circle cx="16" cy="6" r="2"/><circle cx="10" cy="12" r="2"/><circle cx="18" cy="18" r="2"/></svg></span><span class="nav-label-long hide-below-large">Settings</span><span class="nav-label-short hide-large">Settings</span></a></nav>
-    <a class="user" href="plan-usage.html"><span class="avatar" role="img" aria-label="Signed in as Maya Sari">MS</span><span><strong>Maya Sari</strong>Owner</span></a>
+    <a class="trial-status" href="plan-usage.html" title="Plan and usage"><strong>Free trial: 23 days left</strong><span class="bar" aria-hidden="true"><i style="width:72%"></i></span><span class="pages">286 of 400 pages</span></a>
+    <a class="user" href="plan-usage.html" title="Settings" aria-label="Settings, signed in as Maya Sari (Owner)"><span class="avatar" aria-hidden="true">MS</span><span><strong>Maya Sari</strong>Owner</span><svg class="icon user-action" viewBox="0 0 24 24" aria-hidden="true"><path d="M4 6h10M18 6h2M4 12h4M12 12h8M4 18h12M20 18h0"/><circle cx="16" cy="6" r="2"/><circle cx="10" cy="12" r="2"/><circle cx="18" cy="18" r="2"/></svg></a>
   </div>
 </aside><div class="main"><header class="topbar">
   <a class="only-compact" href="dashboard.html"><img class="mark" src="../brand/kredibel-mark.svg" alt="Kredibel"/></a>
